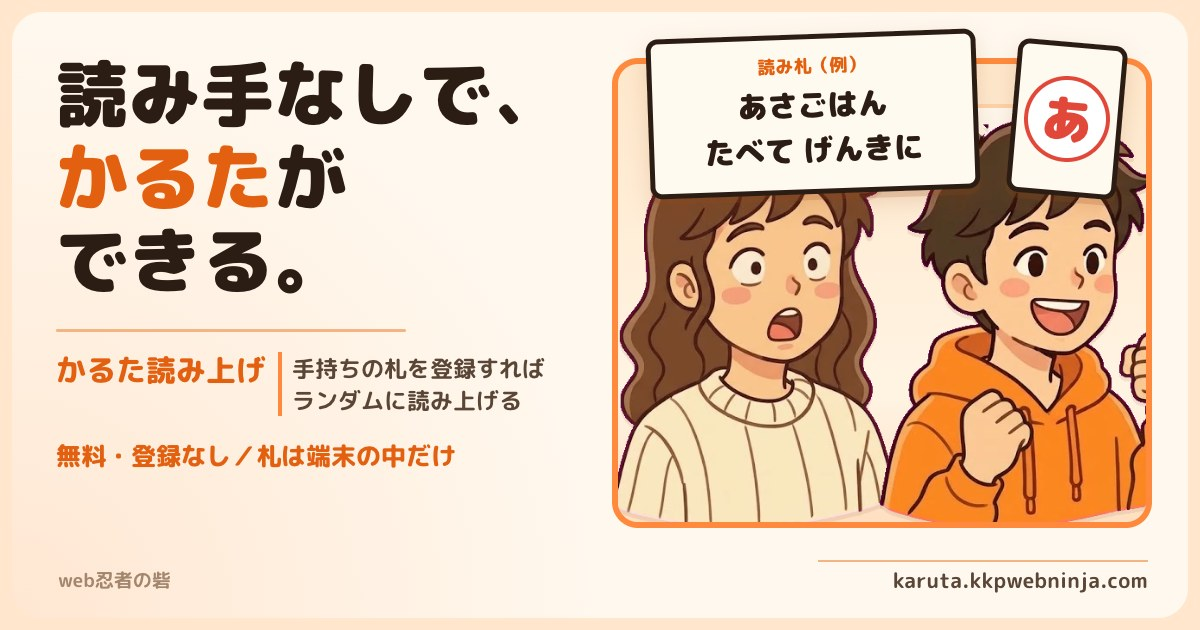
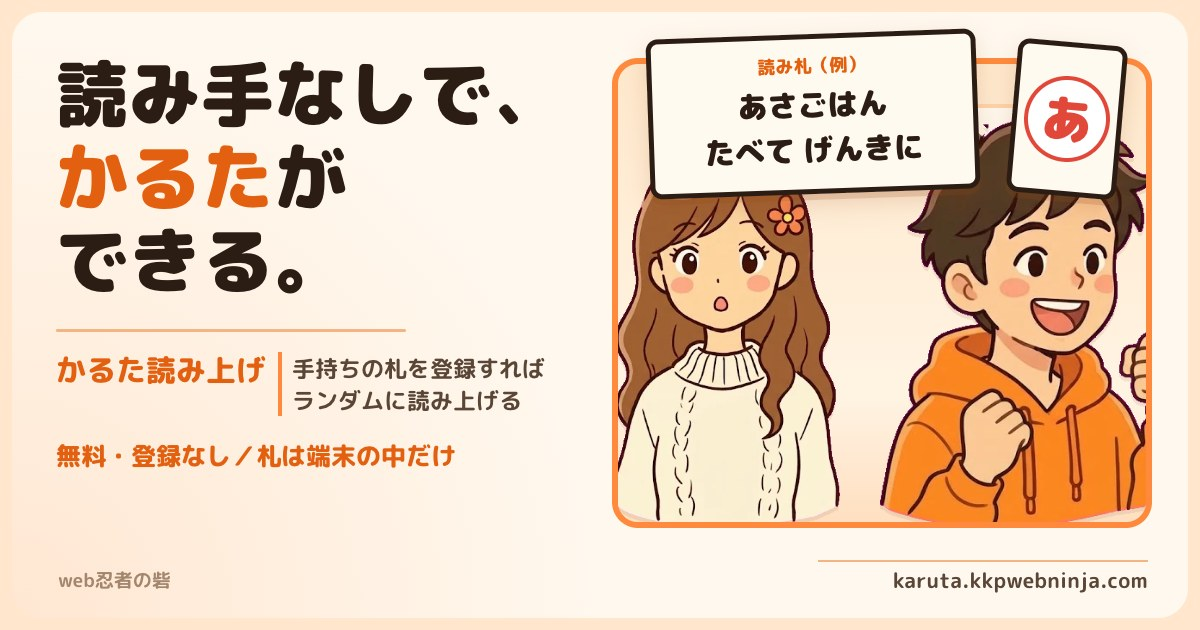
カード画像（OGP）の女の子を、ひと目で女の子と分かる絵に差し替える
男の子と同じ顔に見えていたため、kkp-kit の女の子の素材を作り直して書き出し直した（kkp-kit 978018e）。
og:image・twitter:image の ?d= を 20261023 にして、SNS に新しい画像を読み直させる。

Changed region(s): [[0.4933, 0.3016, 0.74, 0.8444]]

diff --git a/index.html b/index.html
@@ -29,9 +29,9 @@
 <link rel="icon" type="image/png" sizes="192x192" href="/favicon-192.png">
 <link rel="apple-touch-icon" sizes="180x180" href="/apple-touch-icon.png">
 <meta property="og:site_name" content="かるた読み上げ">
-<meta property="og:image" content="https://karuta.kkpwebninja.com/ogp.jpg?d=20261022">
+<meta property="og:image" content="https://karuta.kkpwebninja.com/ogp.jpg?d=20261023">
 <meta name="twitter:card" content="summary_large_image">
-<meta name="twitter:image" content="https://karuta.kkpwebninja.com/ogp.jpg?d=20261022">
+<meta name="twitter:image" content="https://karuta.kkpwebninja.com/ogp.jpg?d=20261023">
 <script type="application/ld+json">
 {
   "@context": "https://schema.org",
